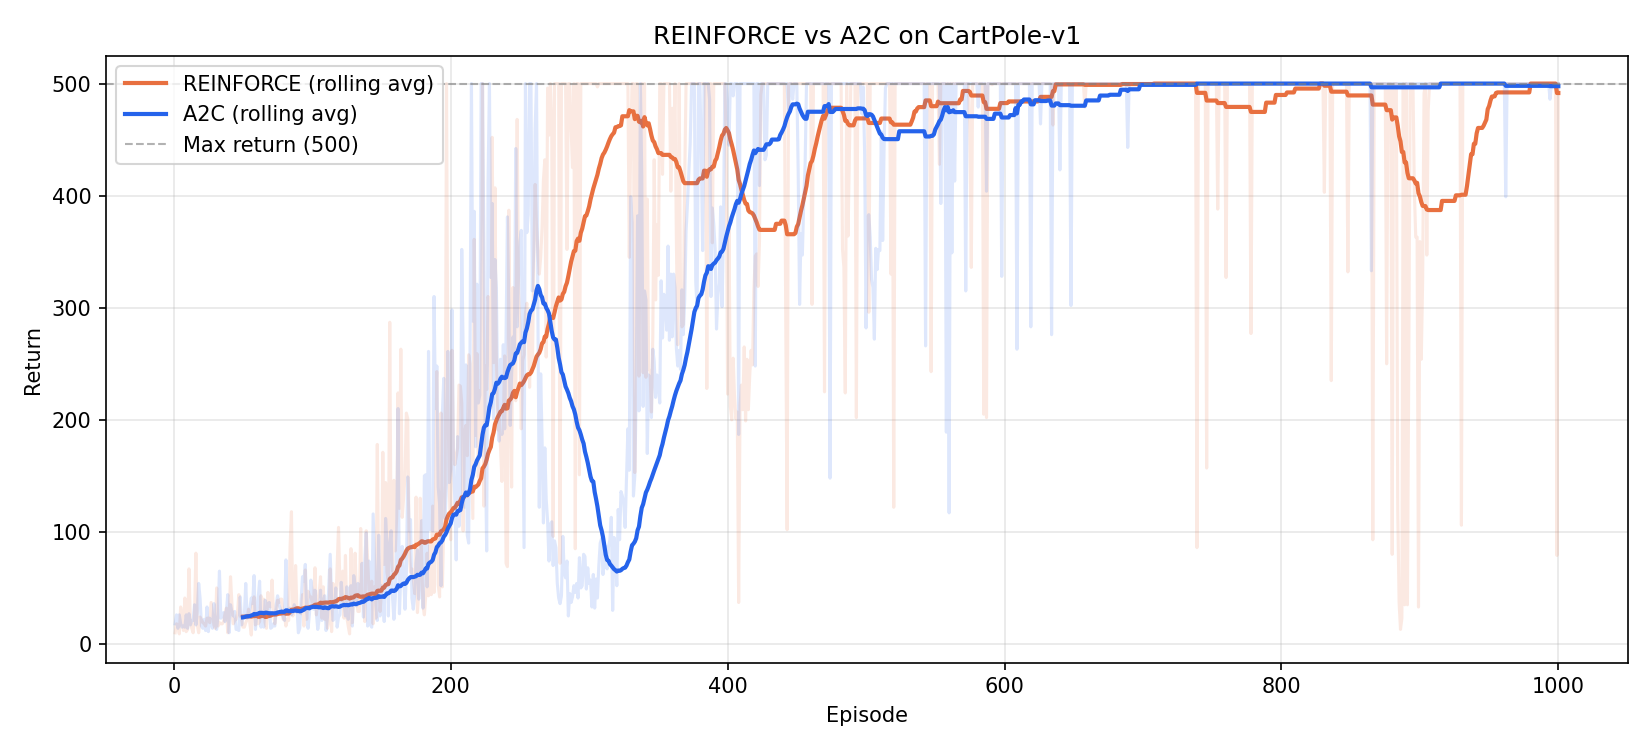
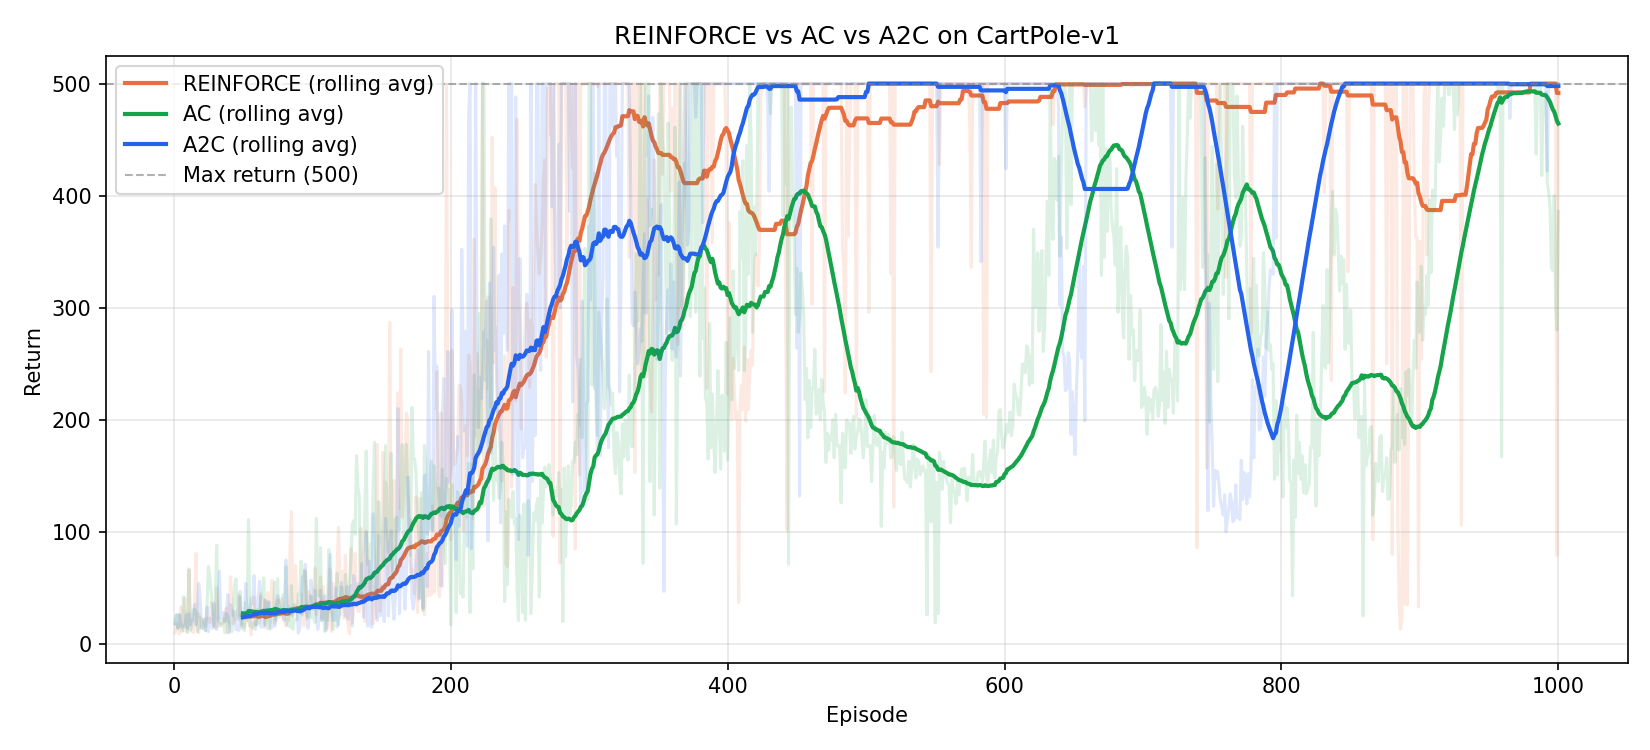
comparison update

diff --git a/Assignment3/compare reinforce a2c.py b/Assignment3/compare reinforce a2c.py
@@ -43,6 +43,8 @@ class ValueNetwork(nn.Module):
         return self.net(x).squeeze(-1)
 
 
+# ----- shared helpers ----- #
+
 def compute_returns(rewards, gamma):
     G, returns = 0.0, []
     for r in reversed(rewards):
@@ -76,6 +78,7 @@ def reinforce_update(optimizer, log_probs, rewards, gamma):
     optimizer.step()
     return loss.item()
 
+# ----- REINFORCE ----- #
 
 def train_reinforce():
     torch.manual_seed(SEED); np.random.seed(SEED)
@@ -99,6 +102,48 @@ def train_reinforce():
     env.close()
     return returns_history
 
+
+# ----- AC (basic Actor-Critic) ----- #
+
+def ac_update(actor_opt, critic_opt, log_probs, rewards, states, value_net, gamma):
+    returns       = compute_returns(rewards, gamma)
+    states_t      = torch.stack(states)
+    log_probs_t   = torch.stack(log_probs)
+
+    # actor uses raw MC returns as weights — no baseline subtracted
+    actor_loss = -(log_probs_t * returns).sum()
+    actor_opt.zero_grad(); actor_loss.backward(); actor_opt.step()
+
+    # critic: MSE between V(s) predictions and MC returns
+    critic_loss = nn.functional.mse_loss(value_net(states_t), returns)
+    critic_opt.zero_grad(); critic_loss.backward(); critic_opt.step()
+
+    return actor_loss.item(), critic_loss.item()
+
+def train_ac():
+    torch.manual_seed(SEED); np.random.seed(SEED)
+    env = gym.make(ENVIRONMENT_NAME)
+    env.reset(seed=SEED)
+    state_dim  = env.observation_space.shape[0]
+    action_dim = env.action_space.n
+    policy_net = PolicyNetwork(state_dim, action_dim, HIDDEN_SIZE)
+    value_net  = ValueNetwork(state_dim, HIDDEN_SIZE)
+    actor_opt  = optim.Adam(policy_net.parameters(), lr=LEARNING_RATE)
+    critic_opt = optim.Adam(value_net.parameters(),  lr=LEARNING_RATE)
+    returns_history = []
+    print("Training AC...")
+    for episode in range(1, N_EPISODES + 1):
+        log_probs, rewards, states, ep_return = collect_episode(env, policy_net)
+        ac_update(actor_opt, critic_opt, log_probs, rewards, states, value_net, GAMMA)
+        returns_history.append(ep_return)
+        if episode % LOG_INTERVAL == 0:
+            print(f"  Episode {episode}/{N_EPISODES} | "
+                  f"Avg Return: {np.mean(returns_history[-LOG_INTERVAL:]):.2f}")
+    env.close()
+    return returns_history
+
+
+# ----- A2C ----- #
 
 def a2c_update(actor_opt, critic_opt, log_probs, rewards, states, policy, value_net, gamma):
     returns     = compute_returns(rewards, gamma)
@@ -140,30 +185,36 @@ def train_a2c():
     return returns_history
 
 
+# ----- plotting ----- #
+
 def smooth(returns, window=50):
     smoothed = np.convolve(returns, np.ones(window) / window, mode="valid")
     x = np.arange(window, len(returns) + 1)
     return x, smoothed
 
-
-def plot_comparison(reinforce_returns, a2c_returns, window=50):
+def plot_comparison(reinforce_returns, ac_returns, a2c_returns, window=50):
     fig, ax = plt.subplots(figsize=(11, 5))
     episodes = np.arange(1, N_EPISODES + 1)
 
     # REINFORCE
     rx, rs = smooth(reinforce_returns, window)
     ax.plot(episodes, reinforce_returns, alpha=0.15, color="#E87040")
-    ax.plot(rx, rs, color="#E87040", linewidth=2, label=f"REINFORCE (rolling avg)")
+    ax.plot(rx, rs, color="#E87040", linewidth=2, label="REINFORCE (rolling avg)")
 
-    # A2C  — paste your logged returns here if you don't want to re-run
-    ax2c_x, a2c_s = smooth(a2c_returns, window)
+    # AC
+    acx, acs = smooth(ac_returns, window)
+    ax.plot(episodes, ac_returns, alpha=0.15, color="#16A34A")
+    ax.plot(acx, acs, color="#16A34A", linewidth=2, label="AC (rolling avg)")
+
+    # A2C
+    a2cx, a2cs = smooth(a2c_returns, window)
     ax.plot(episodes, a2c_returns, alpha=0.15, color="#2563EB")
-    ax.plot(ax2c_x, a2c_s, color="#2563EB", linewidth=2, label=f"A2C (rolling avg)")
+    ax.plot(a2cx, a2cs, color="#2563EB", linewidth=2, label="A2C (rolling avg)")
 
     ax.axhline(500, color="gray", linestyle="--", linewidth=1, alpha=0.6, label="Max return (500)")
     ax.set_xlabel("Episode")
     ax.set_ylabel("Return")
-    ax.set_title("REINFORCE vs A2C on CartPole-v1")
+    ax.set_title("REINFORCE vs AC vs A2C on CartPole-v1")
     ax.legend()
     ax.grid(alpha=0.3)
     fig.tight_layout()
@@ -172,7 +223,10 @@ def plot_comparison(reinforce_returns, a2c_returns, window=50):
     print("Saved comparison_learning_curves.png")
 
 
+# ----- main ----- #
+
 if __name__ == "__main__":
     reinforce_returns = train_reinforce()
+    ac_returns        = train_ac()
     a2c_returns       = train_a2c()
-    plot_comparison(reinforce_returns, a2c_returns)
+    plot_comparison(reinforce_returns, ac_returns, a2c_returns)
